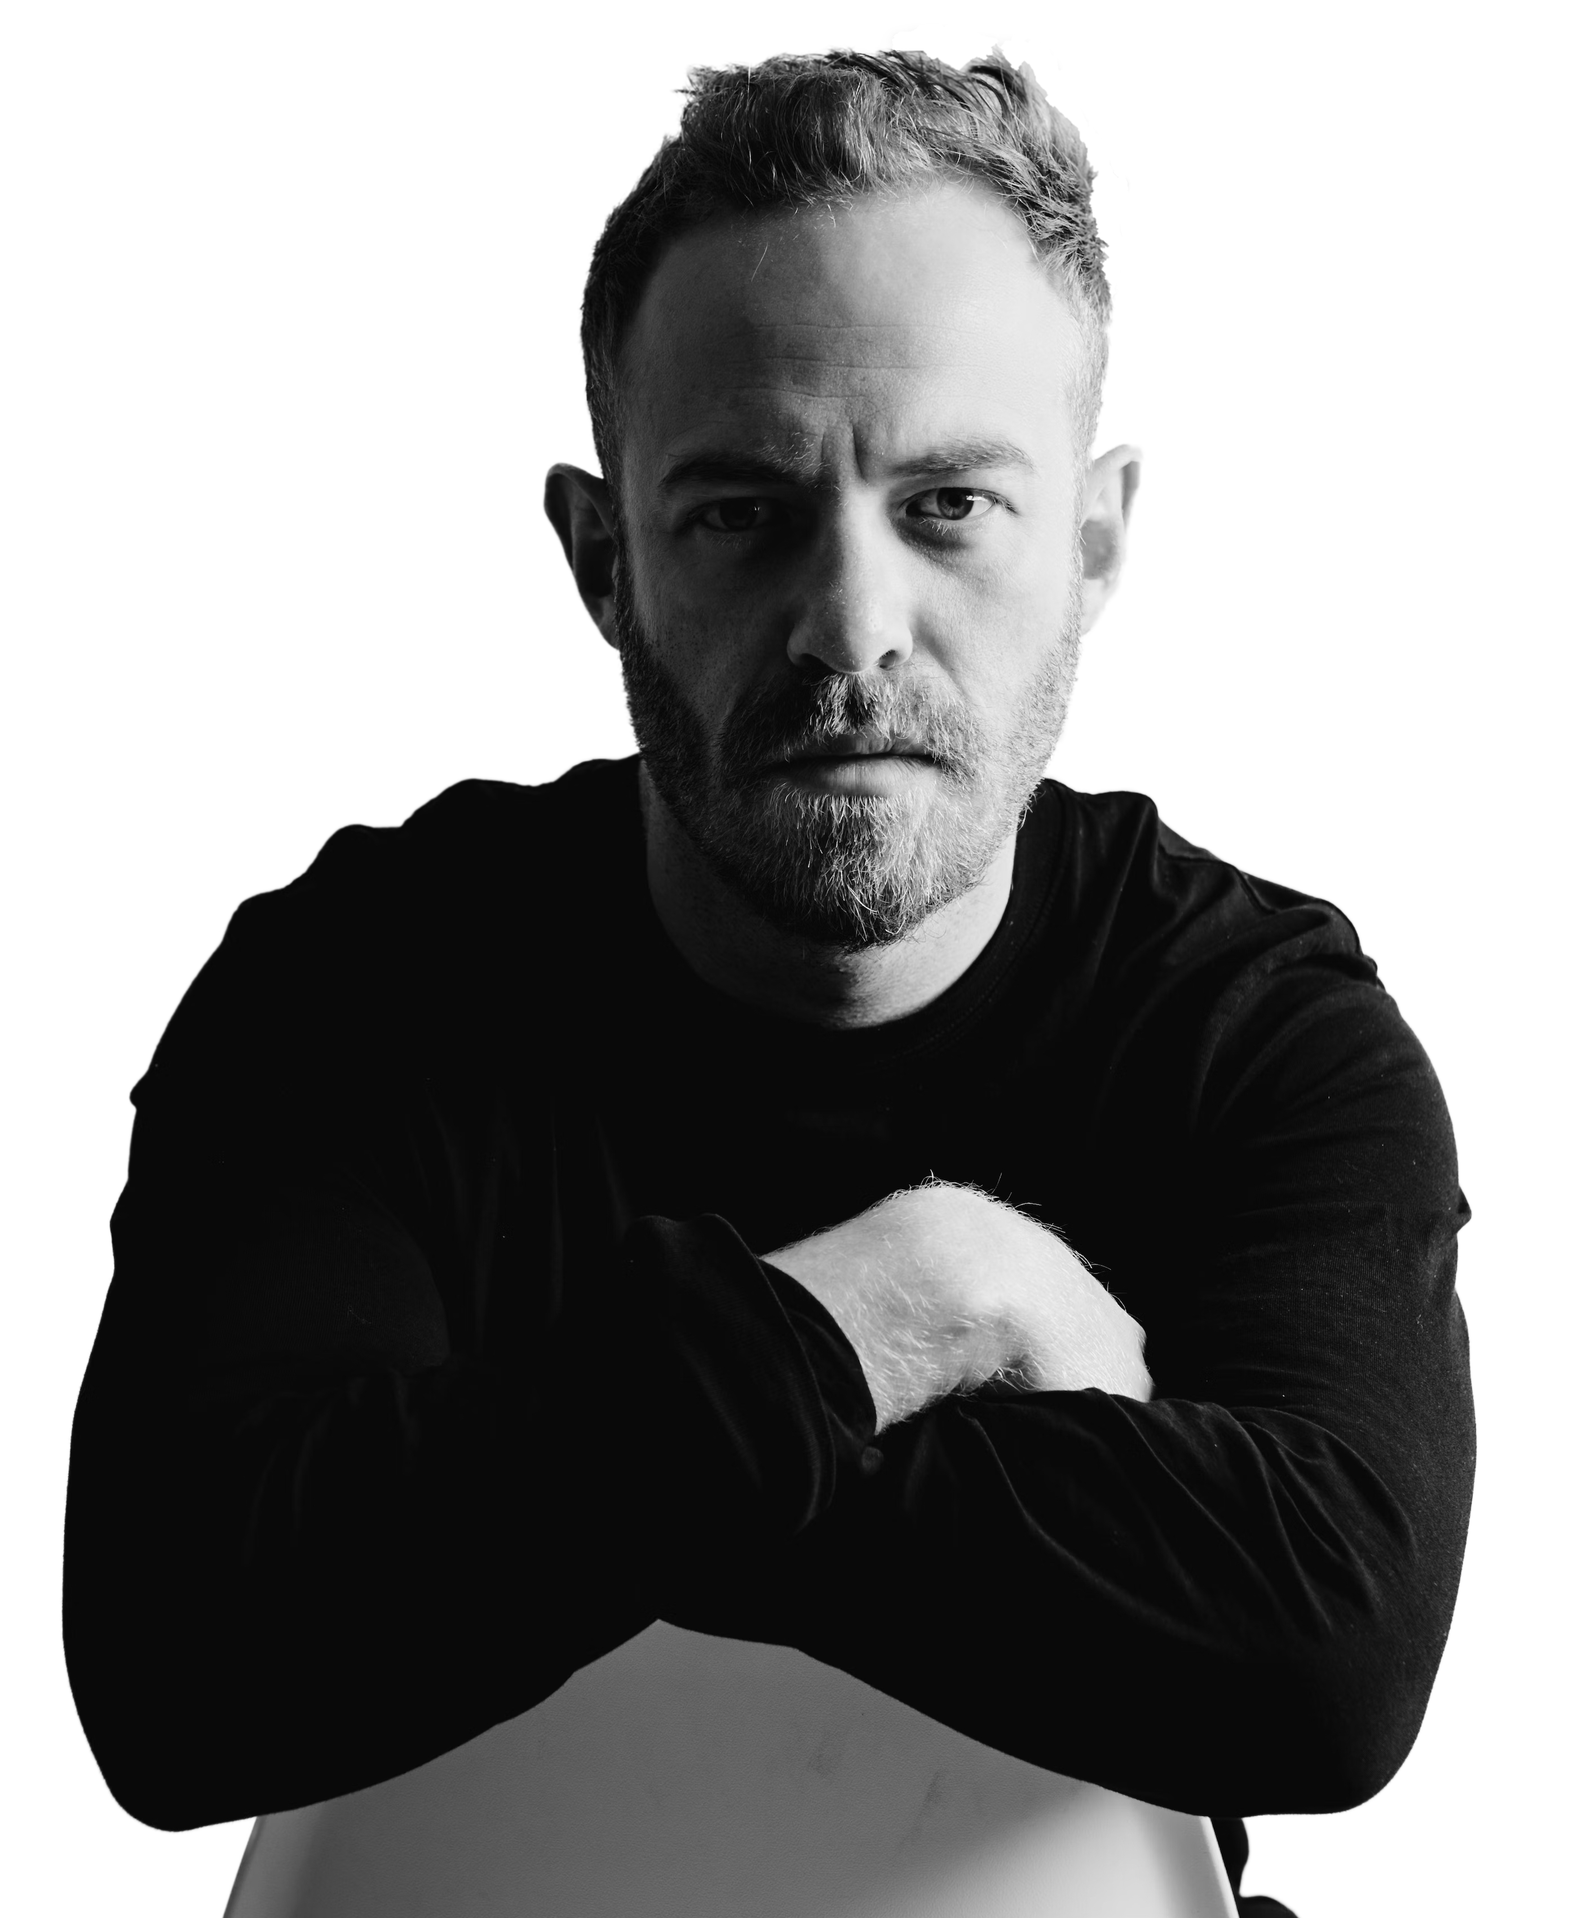
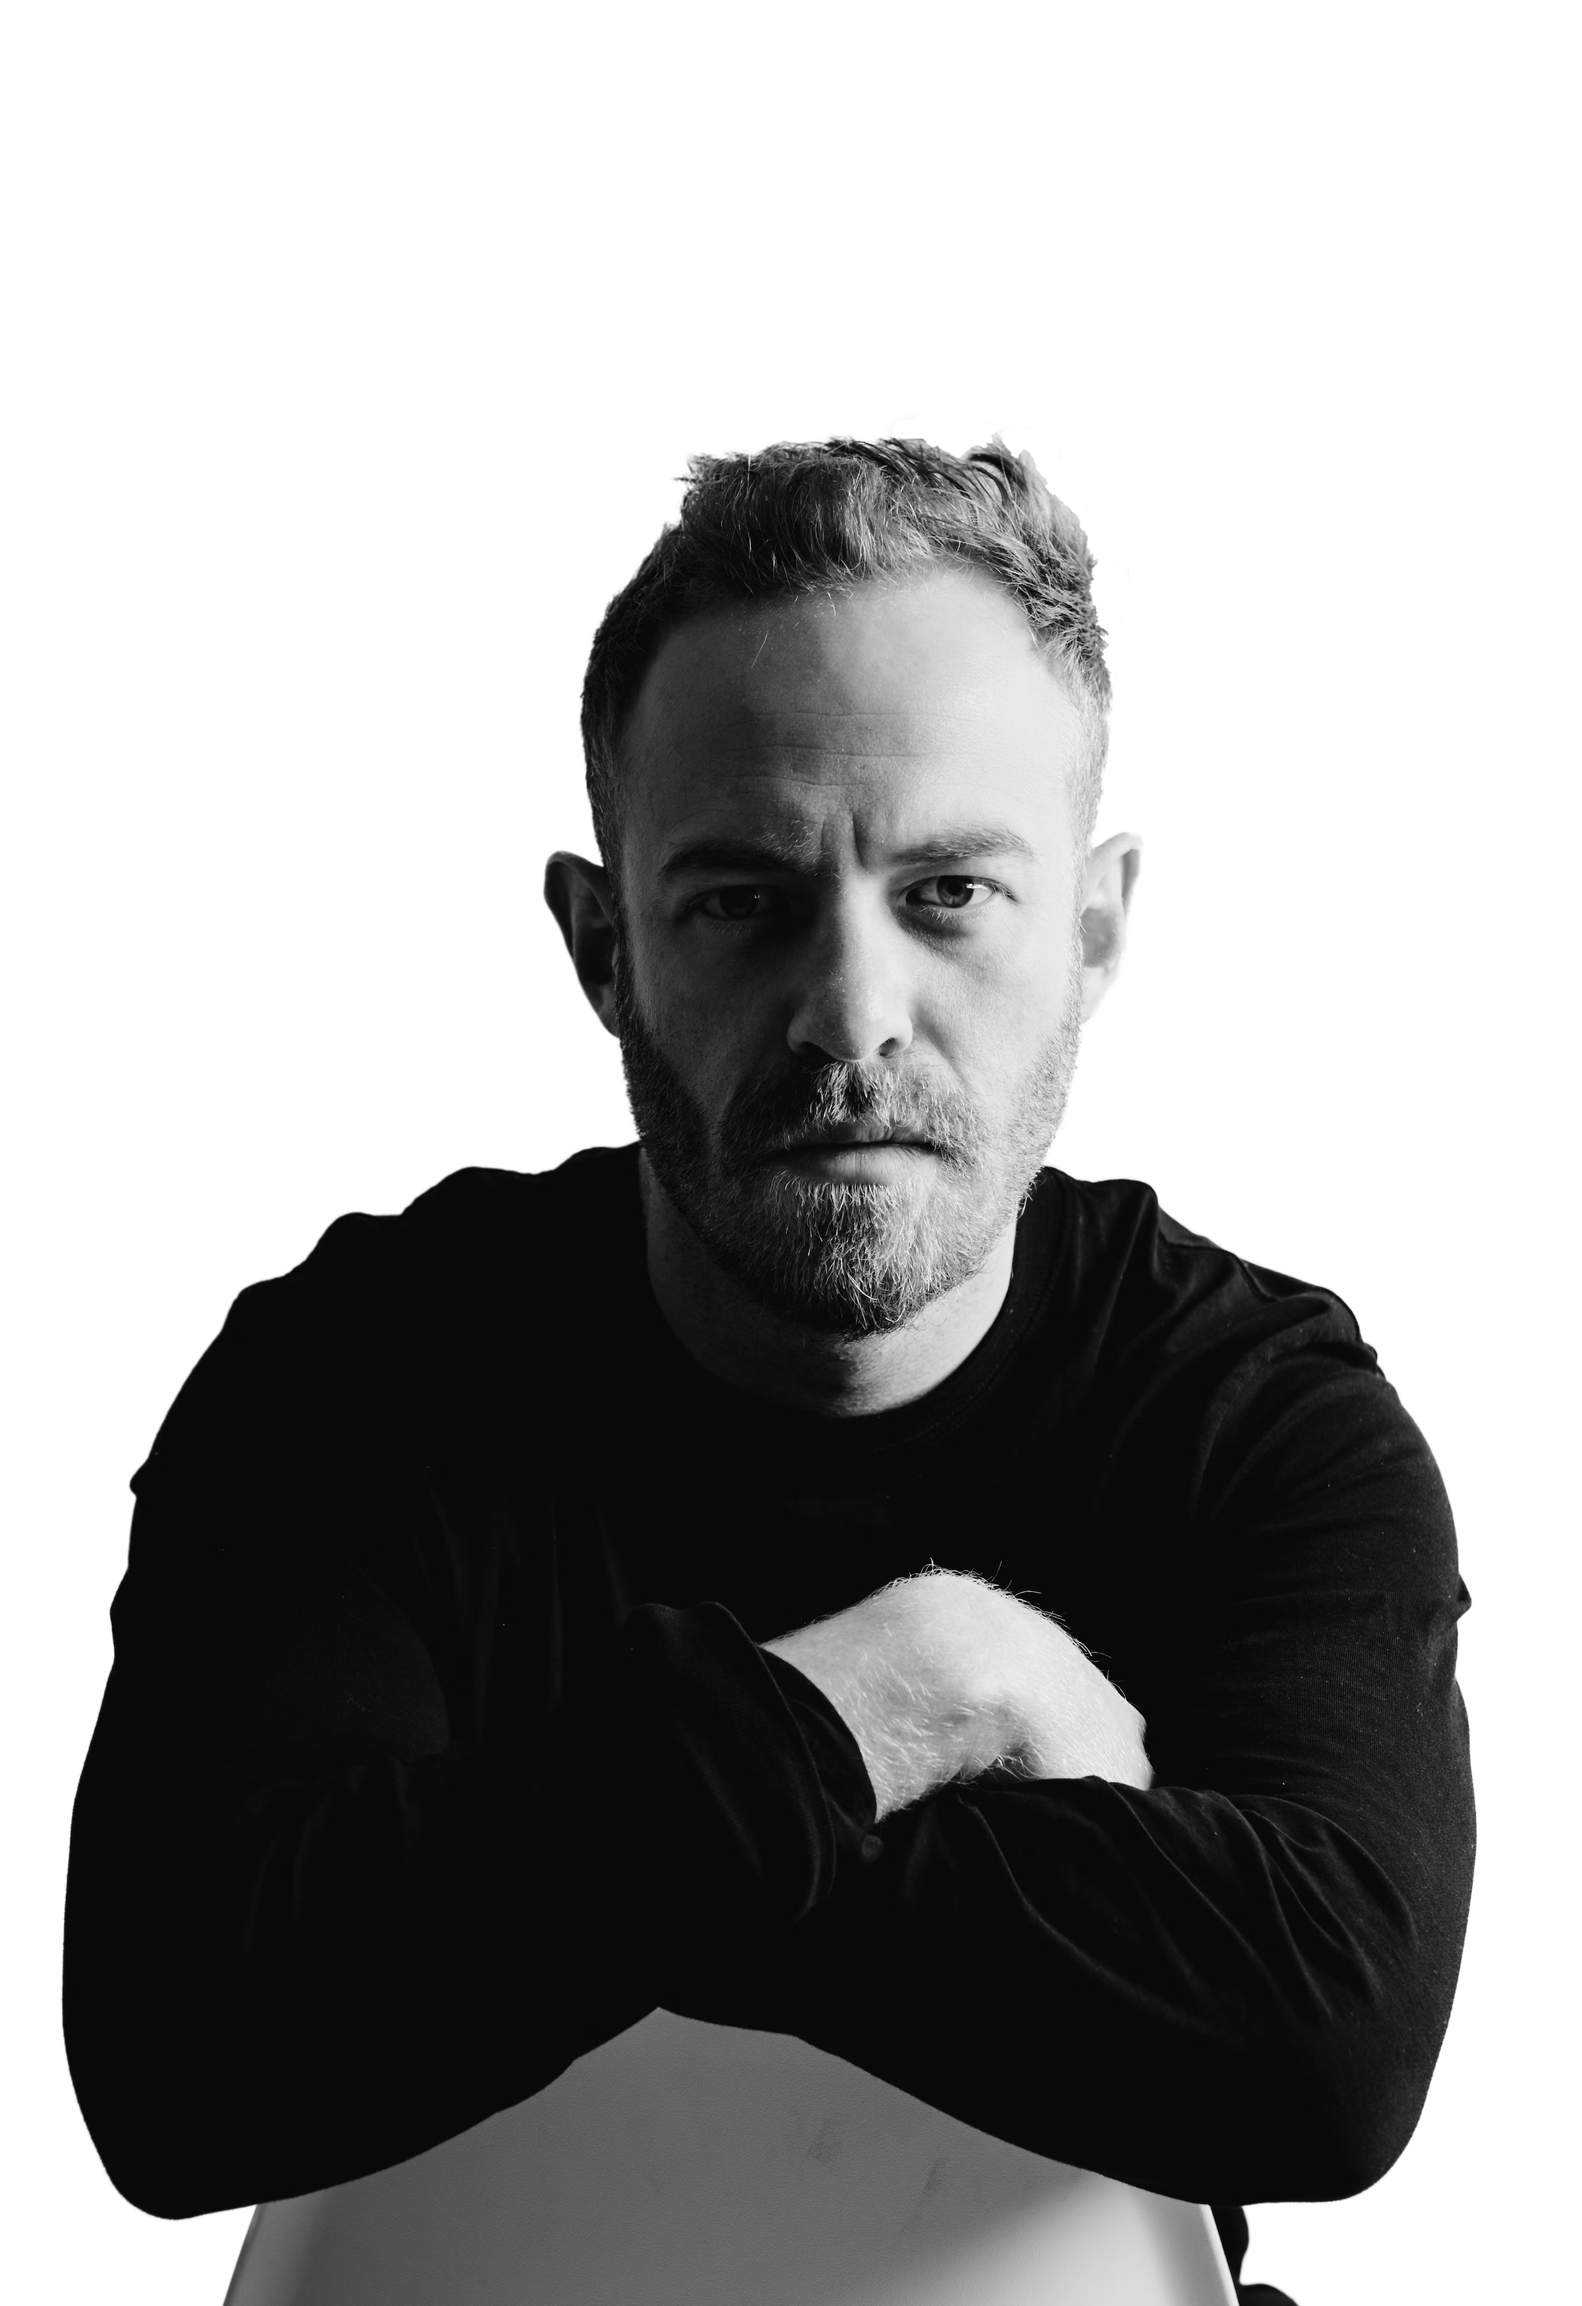
Animation

diff --git a/src/components/Hero/index.tsx b/src/components/Hero/index.tsx
@@ -94,18 +94,17 @@ export default function Hero() {
           </a>
         </div>
       </header>
-
+      <div className="absolute left-1/2 bottom-0 z-10 hidden w-1/2 max-w-xl items-end bg-transparent pt-20 lg:block">
+        <img src="/graphics/man2.png" className=" h-full max-h-screen" />
+      </div>
       <main className="relative m-auto flex min-h-full w-full max-w-7xl items-center px-8">
-        <div className="mt-50 hidde absolute right-10 top-10 z-20 h-[500px] w-[500px] translate-x-1/3 animate-move-x rounded-full bg-gradient-to-tl from-indigo-500 to-indigo-400 mix-blend-overlay lg:block lg:translate-x-0" />
-        <div className="mt-50 to-indigo-/400/0 absolute right-0 top-0 -z-10 hidden h-[650px] w-[650px] translate-x-1/4 animate-move-y rounded-full bg-opacity-50 bg-gradient-to-tl from-indigo-300/60 lg:block lg:translate-x-0" />
-        <div className="mt-50 absolute right-0 top-0 -z-10 hidden h-[400px] w-[400px] translate-x-1/4 animate-move-x rounded-full bg-gradient-to-tr from-indigo-100 to-indigo-400/20 lg:block lg:translate-x-0" />
-        <div className="mt-50 absolute right-32 top-20 -z-10 hidden h-[340px] w-[340px] translate-x-1/4 animate-move-y rounded-full bg-opacity-50 bg-gradient-to-l from-indigo-500 to-indigo-300 lg:block lg:translate-x-0" />
+        <div className="mt-50 absolute top-10 z-20 hidden h-[500px] w-[500px] translate-x-1/3 animate-move-x rounded-full bg-gradient-to-tl from-indigo-500 to-indigo-400 mix-blend-overlay lg:right-10 lg:block lg:translate-x-0" />
+        <div className="mt-50 absolute top-0 -z-10 hidden h-[650px] w-[650px] translate-x-1/4 animate-move-y rounded-full bg-opacity-50 bg-gradient-to-tl from-indigo-300/60 to-indigo-400/0 lg:right-0 lg:block lg:translate-x-0" />
+        <div className="mt-50 absolute top-0 -z-10 hidden h-[400px] w-[400px] translate-x-1/4 animate-move-x rounded-full bg-gradient-to-tr from-indigo-100 to-indigo-400/20 lg:right-0 lg:block lg:translate-x-0" />
+        <div className="mt-50 absolute top-20 -z-10 hidden h-[340px] w-[340px] translate-x-1/4 animate-move-y rounded-full bg-opacity-50 bg-gradient-to-l from-indigo-500 to-indigo-300 lg:right-32 lg:block lg:translate-x-0" />
 
-        <div className="absolute right-0 top-0 z-10 hidden w-1/2 items-end bg-transparent lg:flex">
-          <img src="/graphics/man2.png" />
-        </div>
         <div className="m-auto mb-0 w-full space-y-8 pt-24 text-center lg:mb-auto lg:max-w-7xl lg:pt-0 lg:text-left">
-          <div className="m-auto max-w-lg space-y-6 lg:m-0">
+          <div className="m-auto max-w-lg space-y-6 lg:m-0 lg:pl-10">
             <h1>
               <span className="mb-4 flex items-center justify-center gap-3 font-poppins text-sm font-bold uppercase text-stone-500 lg:justify-start">
                 <span className=" hidden h-0.5 w-8 bg-stone-400 lg:inline-block" />{' '}
@@ -122,11 +121,10 @@ export default function Hero() {
             </p>
           </div>
           <div className="m-auto aspect-square max-w-md overflow-hidden lg:hidden">
-            <img src="/graphics/man2.png" />
+            <img src="/graphics/man2_cut.png" />
           </div>
         </div>
       </main>
-
       <footer className="z-30 hidden w-full items-center justify-between p-8 lg:flex lg:px-16 lg:py-14">
         <nav>
           <ul className="flex items-center">
